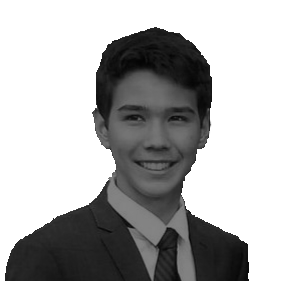
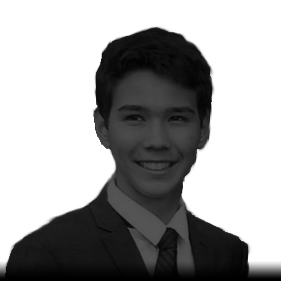
removed images

diff --git a/index.html b/index.html
@@ -121,9 +121,9 @@
     </div>
 
     <div class="about-wrapper clearfix">
-      <div class="about-left clearfix" data-aos="fade-in" data-aos-easing="ease-out-quad" data-aos-delay="50" data-aos-duration="500">
+      <div class="about-left clearfix" data-aos="fade-in" data-aos-easing="ease-out-quad" data-aos-delay="50" data-aos-duration="600">
         <div class="about-shader"></div>
-        <img src="img/me6.png" alt="Photo of Me">
+        <img src="img/me.png" alt="Photo of Me">
       </div>
 
       <div class="about-right">
